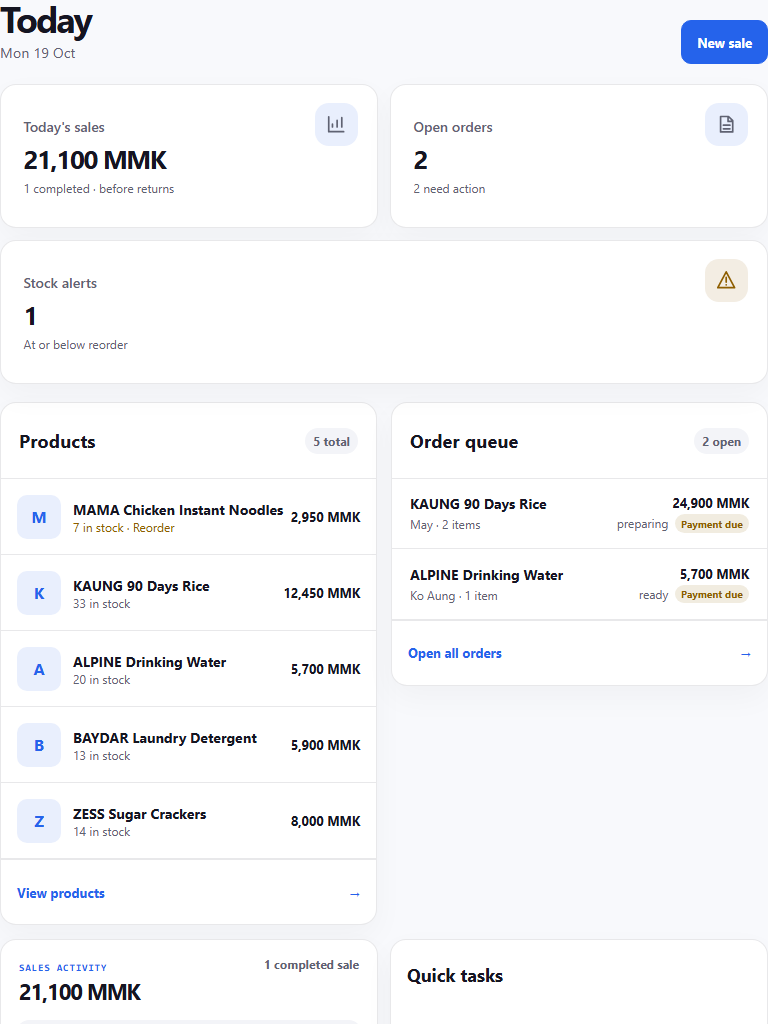
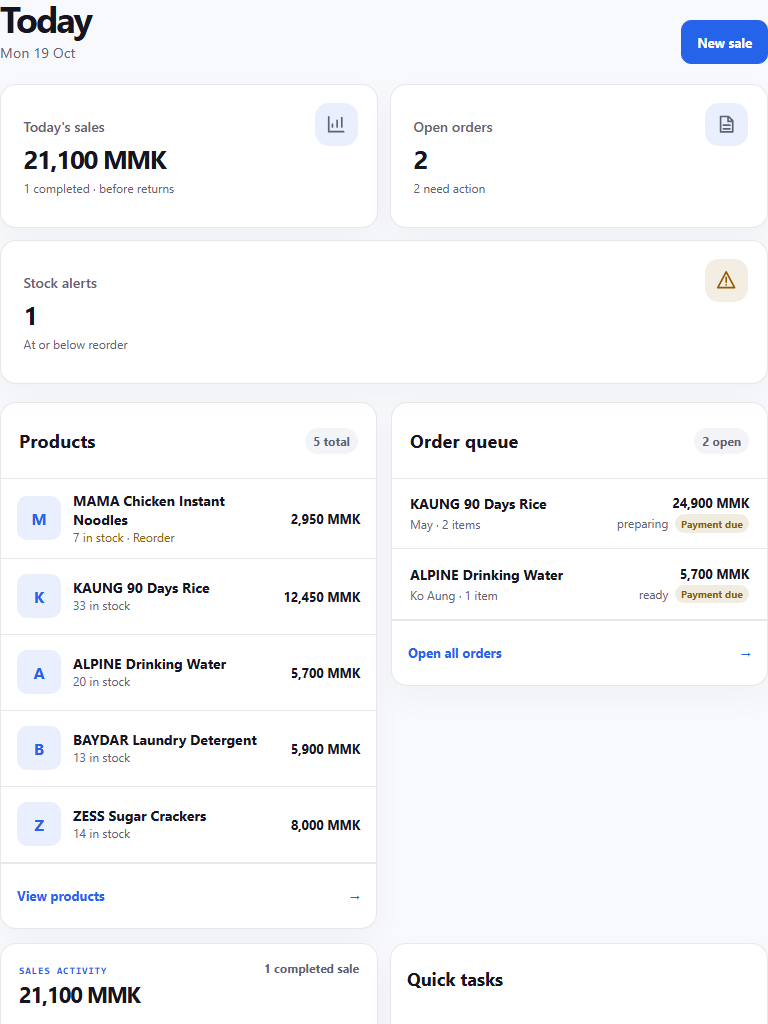
Refresh Shop gallery after responsive fix

diff --git a/docs/SHOP-FIRST-LAUNCH-GATE-2026-10-19.md b/docs/SHOP-FIRST-LAUNCH-GATE-2026-10-19.md
@@ -1,27 +1,27 @@
 # Shop-first launch gate — 19 October 2026
 
-**Decision: NO-GO.** Candidate PR #682 is being advanced from `4681f104e287d976532b95fe8736220100fdb3e9`; the current local Shop source commit is `aee11c592f3696a6d93b7edcafd783a135d83b8a`. Customer-managed access is Shop-only; Sites and Commerce stay internal. This is a review candidate, not a production release. Production promotion, customer access, commercial claims, customer contact, and hardware acceptance remain separate gates.
+**Decision: NO-GO.** Candidate PR #682 remains review-only. The last completed exact-head App CI pass was run `39187751313` at PR head `2cd19e13016fd38ee0e914737e1569c4547d46f8`; its screenshot artifact exposed a long-product-name collision that a local spot-check missed. The local Shop source fix is now committed at `40505d1486be73ed522eb298cb24bef21f5309ad`; the updated gallery and release-gate record are being advanced for fresh exact-head review. Customer-managed access is Shop-only; Sites and Commerce stay internal. This is not a production release. Production promotion, customer access, commercial claims, customer contact, and hardware acceptance remain separate gates.
 
 | Gate | Result | Current evidence |
 |---|---|---|
 | Shop-only customer scope | **PASS — local source only** | The candidate visibility manifest and its 11 product-visibility tests keep customer access limited to Shop. This does not prove hosted login or tenant isolation. |
 | Public website | **FAIL — live content is not release-ready** | The live [SuperMega site](https://supermega.dev/) still shows Shop, Sites, and Commerce with “illustrative records” images. No production website update was made. |
-| Local website candidate | **PASS — review-only** | `node tools/create_public_vercel_output.mjs` and `node tools/verify_app_build.mjs` pass. The generated 7-route output includes the refreshed Shop gallery; app output is 3,331,781 bytes with a 284,820-byte largest JavaScript asset. This verifies local assets, not a hosted deployment. |
-| Product capture provenance | **PASS — current Shop code capture; not production evidence** | `node tools/capture_public_gallery.mjs` captured 22 actual-component views from clean Shop source `aee11c5` (tree `021606874edcbdca7ce107be35890ff3ad071f32`): 12 Shop captures across desktop, tablet, and phone, plus internal Sites/Commerce captures. External requests denied: 0; synthetic records/media are identified; `publicationReady=false`. Twelve Shop captures now feed the local website build with “sample data” labels. No deployment was performed. |
-| Shop payment and fulfilment semantics | **PASS — prior exact-head CI; new local commit pending CI** | Payment-due status is separate from a delivery promise. App CI passed at prior PR head `4681f10`; the new responsive CSS and gallery update still need exact-head CI. Hardware payment settlement remains unproven. |
+| Local website candidate | **PASS — review-only** | `node tools/create_public_vercel_output.mjs` and `node tools/verify_app_build.mjs` pass on local source `40505d1`. The generated 7-route output includes the refreshed Shop gallery; app output is 3,331,781 bytes with a 284,820-byte largest JavaScript asset. This verifies local assets, not a hosted deployment. |
+| Product capture provenance | **PASS — current Shop code capture; not production evidence** | `node tools/capture_public_gallery.mjs` captured 22 actual-component views from clean Shop source `40505d1` (tree `305bef26518ce6d0592388972d1a9050f821af8a`): 12 Shop captures across desktop, tablet, and phone, plus internal Sites/Commerce captures. External requests denied: 0; synthetic records/media are identified; `publicationReady=false`. The CI artifact at `2cd19e1` exposed product-name collisions at all three sizes; the refreshed captures now show the name wrapping cleanly without covering stock or price. Twelve Shop captures feed the local website build with “sample data” labels. No deployment was performed. |
+| Shop payment and fulfilment semantics | **PASS — prior exact-head CI; responsive follow-up pending** | Payment-due status is separate from a delivery promise. App CI passed at PR head `2cd19e1`; a follow-up two-line product-name clamp has clean-source local captures and tests but still needs exact-head CI. Hardware payment settlement remains unproven. |
 | Multi-product acceptance approvals | **PASS — prior exact-head CI and local checks** | Commit `4681f10` gives each product a distinct approval ID and keeps product approvals separate from activation approval. Verifier self-test (14 checks), launch-proof tests (4/4), Shop/runtime acceptance test, and prior exact-head CI pass. No hosted acceptance write was run. |
 | Full English / Burmese experience | **FAIL — incomplete** | `node tools/audit_shop_locale_surface.mjs` reports `coverageComplete=false`, 1,226 raw English fragments across six Shop surfaces. |
-| Managed preview migration chain | **FAIL — last observed state** | The approved data-less branch `supermega-shop-preview-20261019` (branch ID `e9593100-0304-49af-8a2b-b357a3707603`; project ref `tnzgzimmqzbwbjpvkfer`) was last observed as `MIGRATIONS_FAILED` because the repository legacy baseline is missing from production migration history. The baseline verifier passes for 27 tables and 2 sequences. A fresh Supabase branch read now returns a permission error. Separate approval to apply that baseline to this preview branch is pending; production and the older failed branch are untouched. |
+| Managed preview migration chain | **FAIL — fresh preview also fails closed** | New data-less branch `supermega-shop-preview-fresh-20261019` (branch ID `a995f7ec-4bd2-4af0-9648-b0b880f7162d`; project ref `rvuutlqxdjaflovozsma`) is `MIGRATIONS_FAILED`, with zero application tables and zero migration rows. Production has 18 recorded migrations and the existing application schemas. Static verifier `node tools/verify_public_legacy_baseline.mjs` passes: 27 legacy public tables, 2 sequences, and the expected quarantine inventory. Owner approval to apply only `supabase/migrations/20260711081300_public_legacy_baseline.sql` to this new branch is pending. The branch contains no production data; no DDL was applied and production remains untouched. |
 | Managed Auth / tenant isolation / hosted reload | **NOT RUN / NOT PROVEN** | No approved two-user synthetic journey, cross-tenant denial, save/reload, or hosted recovery was verified on the new preview. No customer identities were created. |
 | Shop barcode scanner / receipt printer | **NOT RUN** | No named device/browser matrix or physical scanner, printer, paper, and Myanmar-font test is bound to this candidate. |
 | Paid-VPS agents | **NOT RUN — access evidence incomplete** | Current network check reaches RDP port 3389; SSH port 22 is closed. No authenticated VPS desktop, worker installation, heartbeat, or isolated job completion was verified. The local company coordinator reports `localOnly=true`, zero running/queued work, and is not VPS evidence. Local Ollama/inference is not used as a hosted-readiness substitute. |
-| Exact-head CI and security | **BLOCKED** | App CI, kernel verification, and dependency audits passed for prior PR head `4681f10` (App CI run `39186282022`). The responsive fix and refreshed captures pass local build/capture checks at Shop source commit `aee11c5`; exact PR CI for this update is pending. GitGuardian still fails on a `Generic Password` finding in a nested-error test fixture at older PR commit `941182c`; the value was not exposed. |
+| Exact-head CI and security | **BLOCKED — security review remains open** | App CI, kernel verification, audits, and dependency checks passed at PR head `2cd19e1` (App CI run `39187751313`). The refreshed product-label fix and captures at `40505d1` pass local build/capture checks; exact PR CI for this follow-up remains pending. GitGuardian still fails on a `Generic Password` finding in a nested-error test fixture in PR history; the value was not exposed. |
 | Independent review | **BLOCKED** | PR #682 has no eligible independent approval (`reviewDecision` is blank). Automated review does not satisfy GitHub’s independent-review rule. |
 | Production release | **NOT RUN — separate owner gate** | No production migration, deployment, domain update, customer action, or commercial claim was made. |
 
 ## Next actions
 
-1. After the separate owner approval, apply only `supabase/migrations/20260711081300_public_legacy_baseline.sql` to the new data-less preview, then verify the full migration chain, RLS, Auth, and cross-tenant denial. Do not apply it to production.
+1. After the pending separate owner approval, apply only `supabase/migrations/20260711081300_public_legacy_baseline.sql` to branch `rvuutlqxdjaflovozsma`, then verify the complete migration chain, RLS, Auth, and cross-tenant denial. Do not apply it to production.
 2. Finish exact-head CI, resolve the GitGuardian history finding through an owner-approved remediation, and obtain an eligible independent reviewer. Do not bypass either gate.
 3. Recapture the product gallery from the reviewed exact source, make English and Burmese complete, and inspect the rendered desktop, tablet, and mobile captures before considering website publication.
 4. Complete the named scanner/printer and paid-VPS worker acceptance runs; retain their evidence in the release packet.
